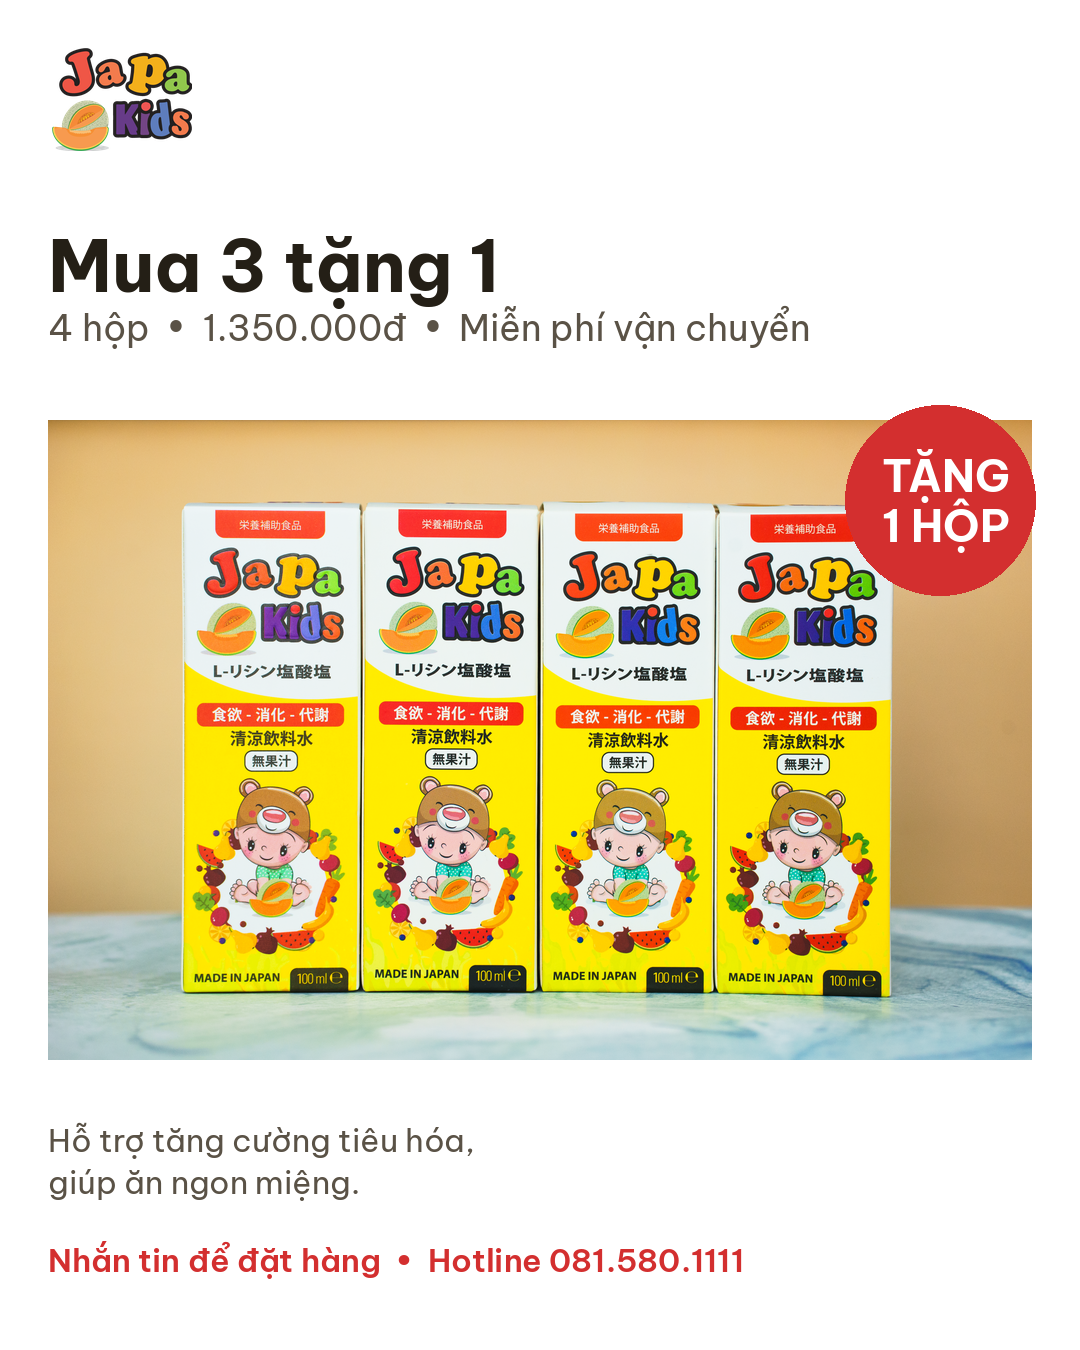
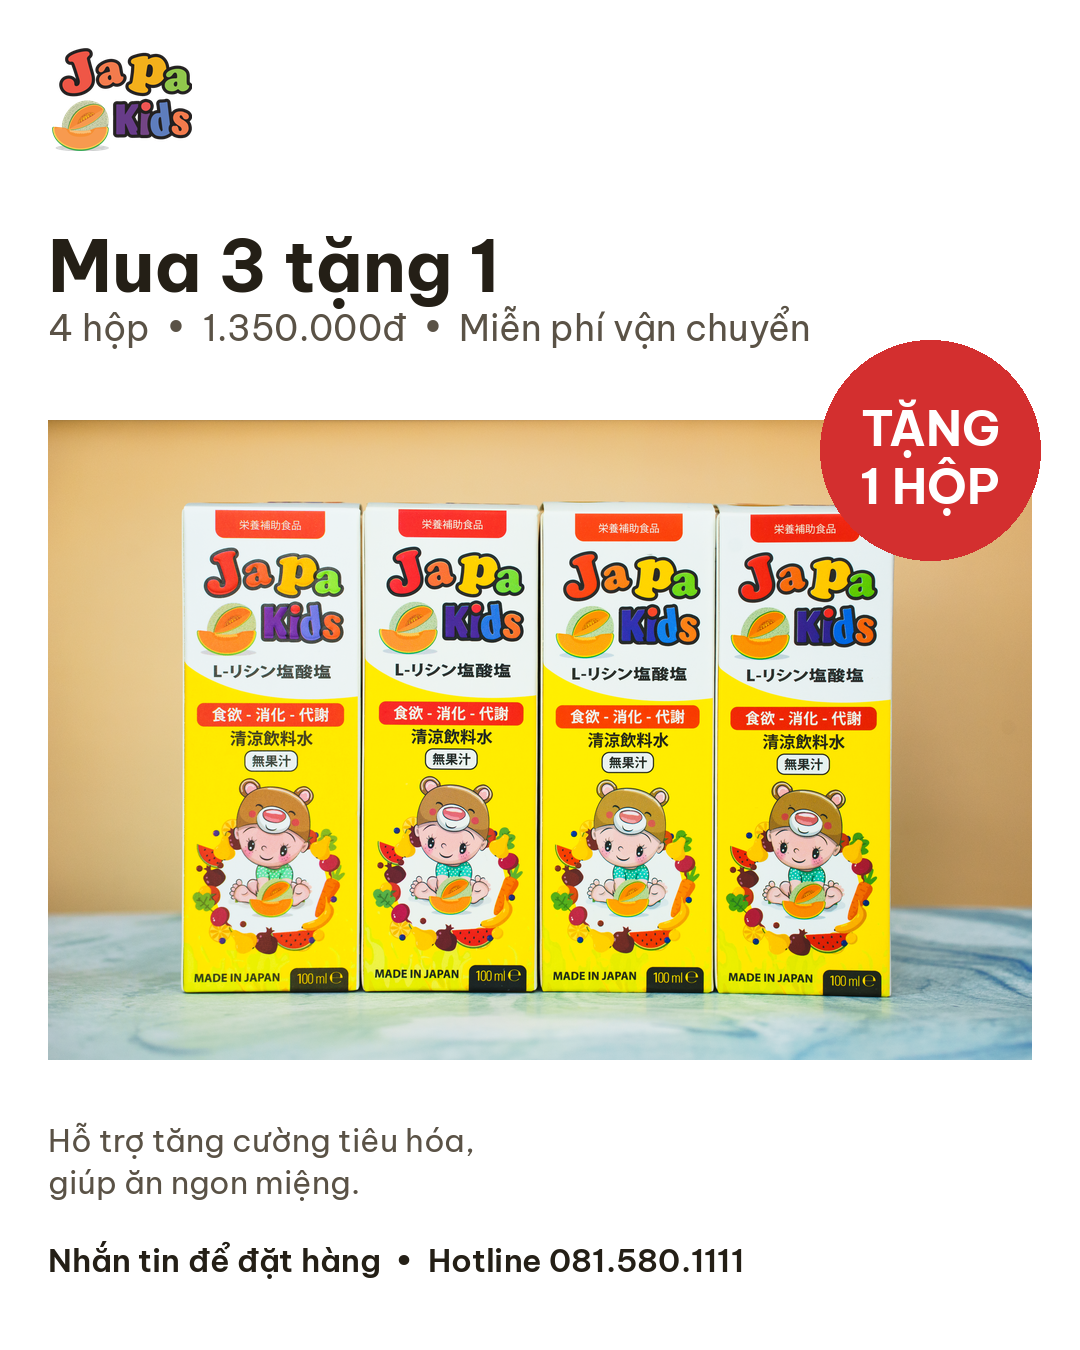
Sua bai Combo 3 theo ket luan kiem duyet

Changed region(s): [[0.7333, 0.2489, 0.9778, 0.4667], [0.3972, 0.9022, 0.6722, 0.9644], [0.0611, 0.9022, 0.3667, 0.9644]]

diff --git a/posts/bai-2026-11-09-combo-3/phieu-kiem-duyet.md b/posts/bai-2026-11-09-combo-3/phieu-kiem-duyet.md
@@ -4,7 +4,7 @@
 
 - [x] Combo 3: mua 3 tặng 1, tổng 4 hộp, 1.350.000đ, miễn phí vận chuyển — đúng du-lieu-chot.json
 - [x] Tặng thêm 1 quà, chọn 1 trong 4: Sữa Japa Milk, Ho Vượng Khí, D3K2, Kodomo Genki — đúng dữ liệu đã chốt
-- [x] 1 hộp 100 ml — đúng nhãn
+- [x] 1 hộp 100 ml — đúng du-lieu-chot.json (dung_tich, bổ sung 09/11/2026)
 - [x] Giao hàng: Hà Nội và TP.HCM nội thành trong ngày, tỉnh khác 1–2 ngày, tối đa 3 ngày — đúng dữ liệu đã chốt 08/11/2026
 - [x] Hotline 081.580.1111 — đúng dữ liệu đã chốt
 
@@ -19,7 +19,7 @@
 
 - [x] Ảnh: ảnh thật sản phẩm studio DSC09447, đúng 4 hộp, khớp với Combo 3 (mua 3 tặng 1 = 4 hộp)
 - [x] Logo góc trái phía trên, nhỏ
-- [x] Điểm nhấn: huy hiệu tròn đỏ "TẶNG 1 HỘP"
+- [x] Điểm nhấn: huy hiệu tròn đỏ "TẶNG 1 HỘP" — đúng 1 điểm nhấn; dòng kêu gọi cuối ảnh đã đổi sang chữ đậm màu tối (sửa theo kiểm duyệt 09/11/2026)
 - [x] Chữ không bị cắt, không dính watermark
 
 ## Giả định cần anh kiểm tra

diff --git a/posts/bai-2026-11-09-combo-3/bai-viet.md b/posts/bai-2026-11-09-combo-3/bai-viet.md
@@ -44,4 +44,4 @@ Zalo OA: 10/11/2026, 09:00
 
 ## Hashtag
 
-#JapaKids #BeAnNgon #TieuHoaTot
+#JapaKids #BeAnNgon #ComboJapaKids #MuaBaTangMot
